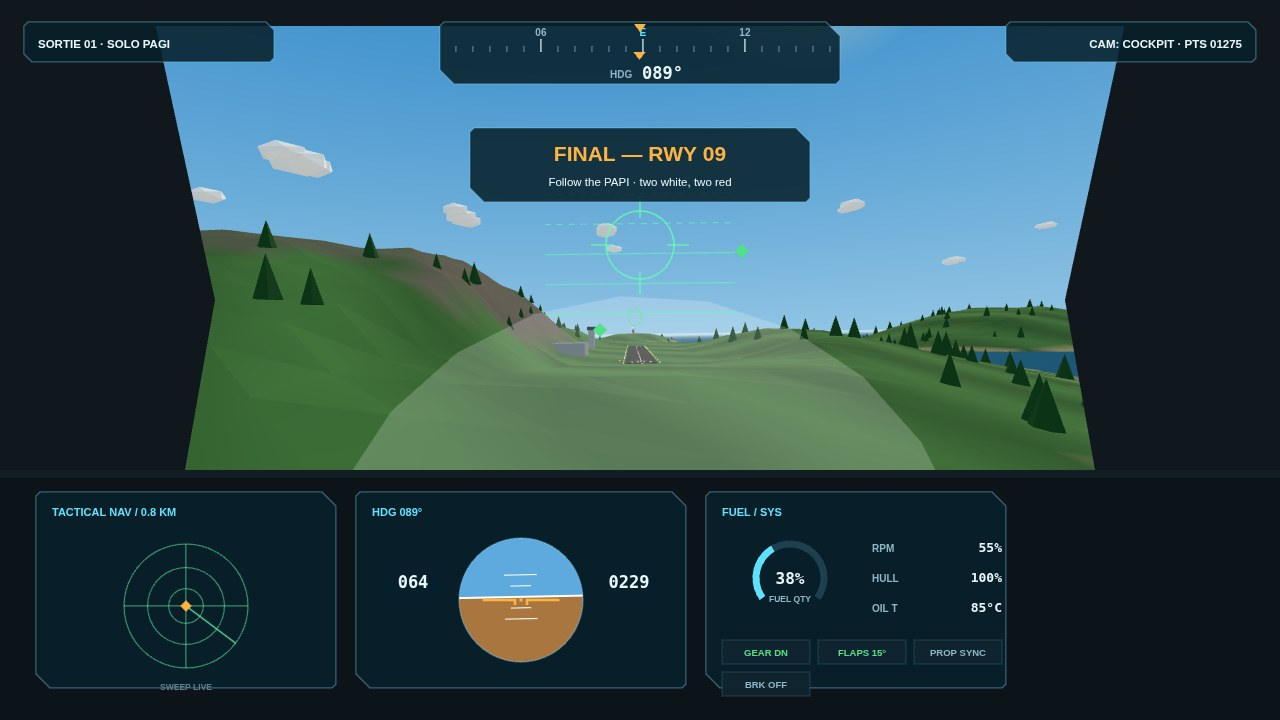
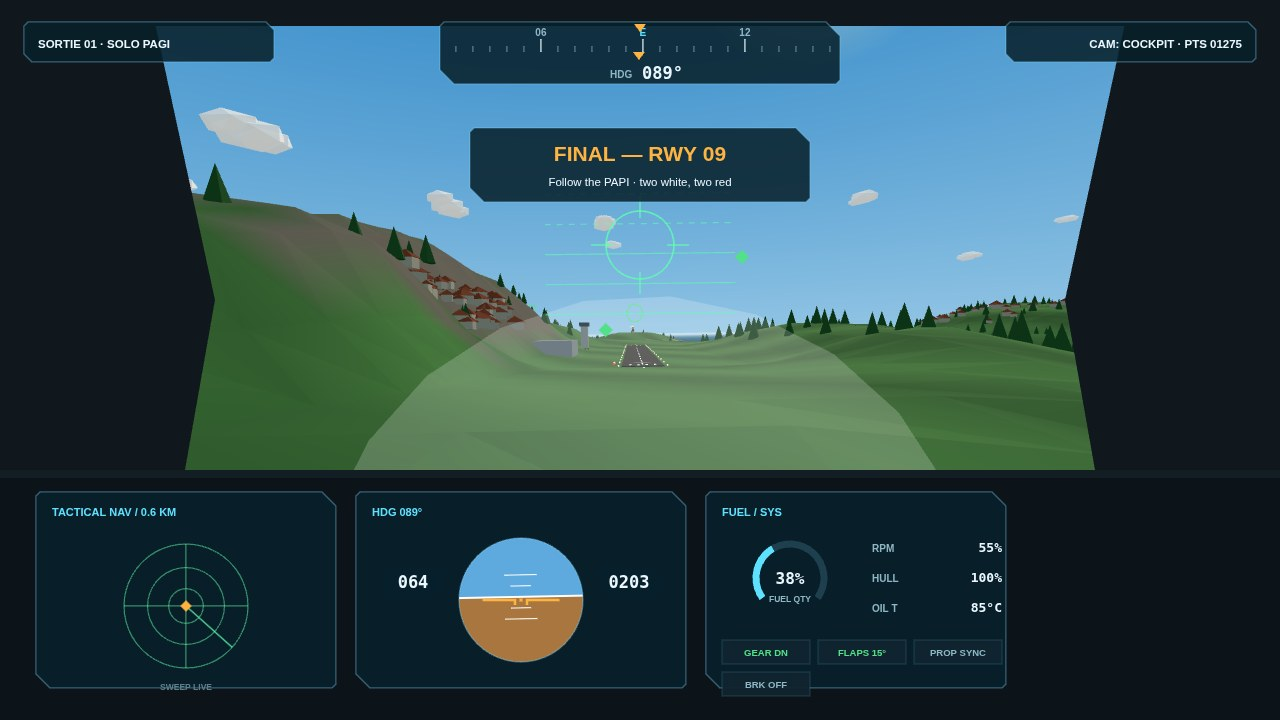
v5: denser world (1500 trees, villages, boats, parked aircraft), closer cockpit final, re-staged hangar/results cameras

diff --git a/game/src/world3d.js b/game/src/world3d.js
@@ -2,6 +2,7 @@
 // One analytic height field drives the terrain mesh, the physics ground
 // collision and the HUD sector map, so all three always agree.
 import * as THREE from 'three';
+import { buildAircraft } from './plane.js';
 
 export const ISLANDS = [
   { x: -150, z: 300, r: 1300, h: 215, name: 'PULAU RAJAWALI' },
@@ -181,11 +182,11 @@ export function buildWorld(scene, lightingName) {
   // Trees — instanced cones on green slopes.
   const treeGeo = new THREE.ConeGeometry(7, 22, 6);
   const treeMat = new THREE.MeshStandardMaterial({ color: 0x2c6e35, flatShading: true, roughness: 1 });
-  const trees = new THREE.InstancedMesh(treeGeo, treeMat, 900);
+  const trees = new THREE.InstancedMesh(treeGeo, treeMat, 1500);
   const dummy = new THREE.Object3D();
   let ti = 0, seed = 7;
   const rnd = () => { seed = (seed * 16807) % 2147483647; return seed / 2147483647; };
-  while (ti < 900) {
+  while (ti < 1500) {
     const x = (rnd() - 0.5) * 7200, z = (rnd() - 0.5) * 7200;
     const h = heightAt(x, z);
     if (h < 8 || h > 165) continue;
@@ -199,6 +200,63 @@ export function buildWorld(scene, lightingName) {
   }
   trees.count = ti;
   scene.add(trees);
+
+  // Houses — little villages on the lower slopes (instanced walls + roofs).
+  const walls = new THREE.InstancedMesh(new THREE.BoxGeometry(16, 9, 13),
+    new THREE.MeshStandardMaterial({ color: 0xe8ddc8, flatShading: true, roughness: 1 }), 130);
+  const roofs = new THREE.InstancedMesh(new THREE.ConeGeometry(13, 7, 4),
+    new THREE.MeshStandardMaterial({ color: 0xa34d2e, flatShading: true, roughness: 1 }), 130);
+  let hi = 0;
+  const clusters = [
+    { x: -420, z: 600, r: 250, n: 46 },
+    { x: 620, z: 2050, r: 200, n: 30 },
+    { x: -820, z: 1900, r: 190, n: 26 },
+    { x: -1900, z: 420, r: 240, n: 28 },
+  ];
+  for (const c of clusters) {
+    let placed = 0, guard = 0;
+    while (placed < c.n && guard++ < 500) {
+      const x = c.x + (rnd() - 0.5) * 2 * c.r, z = c.z + (rnd() - 0.5) * 2 * c.r;
+      const h = heightAt(x, z);
+      if (h < 7 || h > 120) continue;
+      if (Math.abs(z - RUNWAY.cz) < 185 && Math.abs(x) < 2500) continue;
+      const s = 0.8 + rnd() * 0.7, ry = rnd() * Math.PI;
+      dummy.position.set(x, h + 4 * s, z); dummy.scale.set(s, s, s); dummy.rotation.set(0, ry, 0); dummy.updateMatrix();
+      walls.setMatrixAt(hi, dummy.matrix);
+      dummy.position.y = h + 11.5 * s; dummy.rotation.set(0, ry + Math.PI / 4, 0); dummy.updateMatrix();
+      roofs.setMatrixAt(hi, dummy.matrix);
+      hi++; placed++;
+    }
+  }
+  walls.count = hi; roofs.count = hi;
+  scene.add(walls); scene.add(roofs);
+
+  // Boats — hulls and sails on the water near the coasts.
+  const boatGroup = new THREE.Group();
+  const hullMat = new THREE.MeshStandardMaterial({ color: 0xb5502e, flatShading: true, roughness: 1 });
+  const sailMat = new THREE.MeshStandardMaterial({ color: 0xf6f1e3, flatShading: true, side: THREE.DoubleSide });
+  const boatSpots = [[900, 1450, 0.7], [-900, 1650, 2.4], [1400, 700, 1.2], [-1650, -350, 2.9], [2500, 350, 0.4], [450, -1150, 1.8], [-600, 2800, 2.2], [1700, 1700, 5.3], [-2500, 1350, 1.5], [1000, -1650, 3.8]];
+  for (const [bx, bz, bry] of boatSpots) {
+    if (heightAt(bx, bz) > -2) continue;
+    const b = new THREE.Group();
+    const hull = new THREE.Mesh(new THREE.BoxGeometry(16, 3.4, 5), hullMat); hull.position.y = 1.2; b.add(hull);
+    const bow = new THREE.Mesh(new THREE.ConeGeometry(2.6, 6, 4), hullMat);
+    bow.rotation.z = -Math.PI / 2; bow.rotation.y = Math.PI / 4; bow.position.set(10.5, 1.2, 0); b.add(bow);
+    const mast = new THREE.Mesh(new THREE.CylinderGeometry(0.35, 0.35, 15), hullMat); mast.position.y = 9; b.add(mast);
+    const sail = new THREE.Mesh(new THREE.ConeGeometry(4.6, 11, 3), sailMat);
+    sail.scale.z = 0.18; sail.position.set(1.5, 8.6, 0); b.add(sail);
+    b.position.set(bx, 0.5, bz); b.rotation.y = bry;
+    boatGroup.add(b);
+  }
+  scene.add(boatGroup);
+
+  // Parked aircraft beside the hangar — airfield life for the menu backdrop.
+  const parked1 = buildAircraft('rajawali');
+  parked1.group.position.set(-185, RUNWAY.y + 2.3, 838); parked1.group.rotation.y = -0.5;
+  scene.add(parked1.group);
+  const parked2 = buildAircraft('garuda');
+  parked2.group.position.set(120, RUNWAY.y + 2.0, 845); parked2.group.rotation.y = 0.65;
+  scene.add(parked2.group);
 
   // Volcano lava + smoke.
   const volc = ISLANDS[1];

diff --git a/game/src/main.js b/game/src/main.js
@@ -306,9 +306,9 @@ function updateCamera(dt) {
   if (mode === 'menu' || mode === 'results' || mode === 'crashed') {
     const cx = mode === 'menu' ? -330 : P ? P.x : -330;
     const cz = RUNWAY.cz, cy = RUNWAY.y + 2.3;
-    const ang = SHOT ? -0.5 : performance.now() * 0.00004;
-    const r = mode === 'menu' ? 64 : 120;
-    camera.position.set(cx + Math.cos(ang) * r, cy + (mode === 'menu' ? 13 : 26), cz + Math.sin(ang) * r);
+    const ang = SHOT === 'complete' ? 0.9 : SHOT === 'title' ? -0.15 : SHOT ? -0.5 : performance.now() * 0.00004;
+    const r = mode === 'menu' ? (SHOT === 'title' ? 52 : 64) : 120;
+    camera.position.set(cx + Math.cos(ang) * r, cy + (mode === 'menu' ? (SHOT === 'title' ? 11 : 13) : 26), cz + Math.sin(ang) * r);
     camera.lookAt(cx + 10, cy + 5, cz);
     camera.fov = 55; camera.updateProjectionMatrix();
     return;
@@ -398,7 +398,7 @@ function buildSceneIfAircraft(hit) {
 }
 function parkPlane() {
   P = {
-    x: -330, y: RUNWAY.y + 2.3, z: RUNWAY.cz, course: 0.42, pitch: 0, roll: 0,
+    x: -330, y: RUNWAY.y + 2.3, z: RUNWAY.cz, course: 0.3, pitch: 0, roll: 0,
     speed: 0, vy: 0, throttle: 0, fuel: 0.9, airframe: 1,
     gearDown: true, flaps: 0, onGround: true, stall: false, flameout: false,
   };
@@ -424,7 +424,7 @@ function stageShot() {
     for (let i = 0; i < world.gates.length; i++) setGateState(world, i, 'passed');
     gateIdx = world.gates.length; gatesDone = 6; score = 1275; combo = 6; maxCombo = 6;
     phase = 'final'; view = 'cockpit'; camera.fov = 66; camera.updateProjectionMatrix();
-    Object.assign(P, { x: -1250, y: 70, z: 936, course: 0.015, pitch: -0.05, roll: 0.02, speed: 33, throttle: 0.34, fuel: 0.38, onGround: false, gearDown: true, flaps: 15 });
+    Object.assign(P, { x: -1050, y: 62, z: 938, course: 0.015, pitch: -0.05, roll: 0.02, speed: 33, throttle: 0.34, fuel: 0.38, onGround: false, gearDown: true, flaps: 15 });
     elapsed = 158;
     updatePAPI(world, '09', P.y - (RUNWAY.y + Math.max(0, (RUNWAY.cx - RUNWAY.len / 2) - P.x) * 0.0524));
     banner = { title: 'FINAL — RWY 09', sub: 'Follow the PAPI · two white, two red', until: performance.now() + 1e9 };

diff --git a/README.md b/README.md
@@ -46,9 +46,10 @@ and the sector map, so what you see is exactly what you can hit.
 
 Static files under `game/`, rendered with three.js (vendored) over a
 hand-built low-poly world: one height field generates the island
-terrain mesh with vertex-coloured beaches, jungle, rock and ash, a
-thousand instanced trees, a smoking volcano, a lighthouse with a
-rotating beam, and a full airfield — runway numbers, sequenced
+terrain mesh with vertex-coloured beaches, jungle, rock and ash,
+fifteen hundred instanced trees, four villages, sailboats on the
+water, parked aircraft by the hangar, a smoking volcano, a lighthouse
+with a rotating beam, and a full airfield — runway numbers, sequenced
 approach lights, PAPI units that answer your glide in real time.
 Aircraft are modelled from primitives with canvas-painted liveries,
 spinning props and throttle-driven afterburners. All sound is
